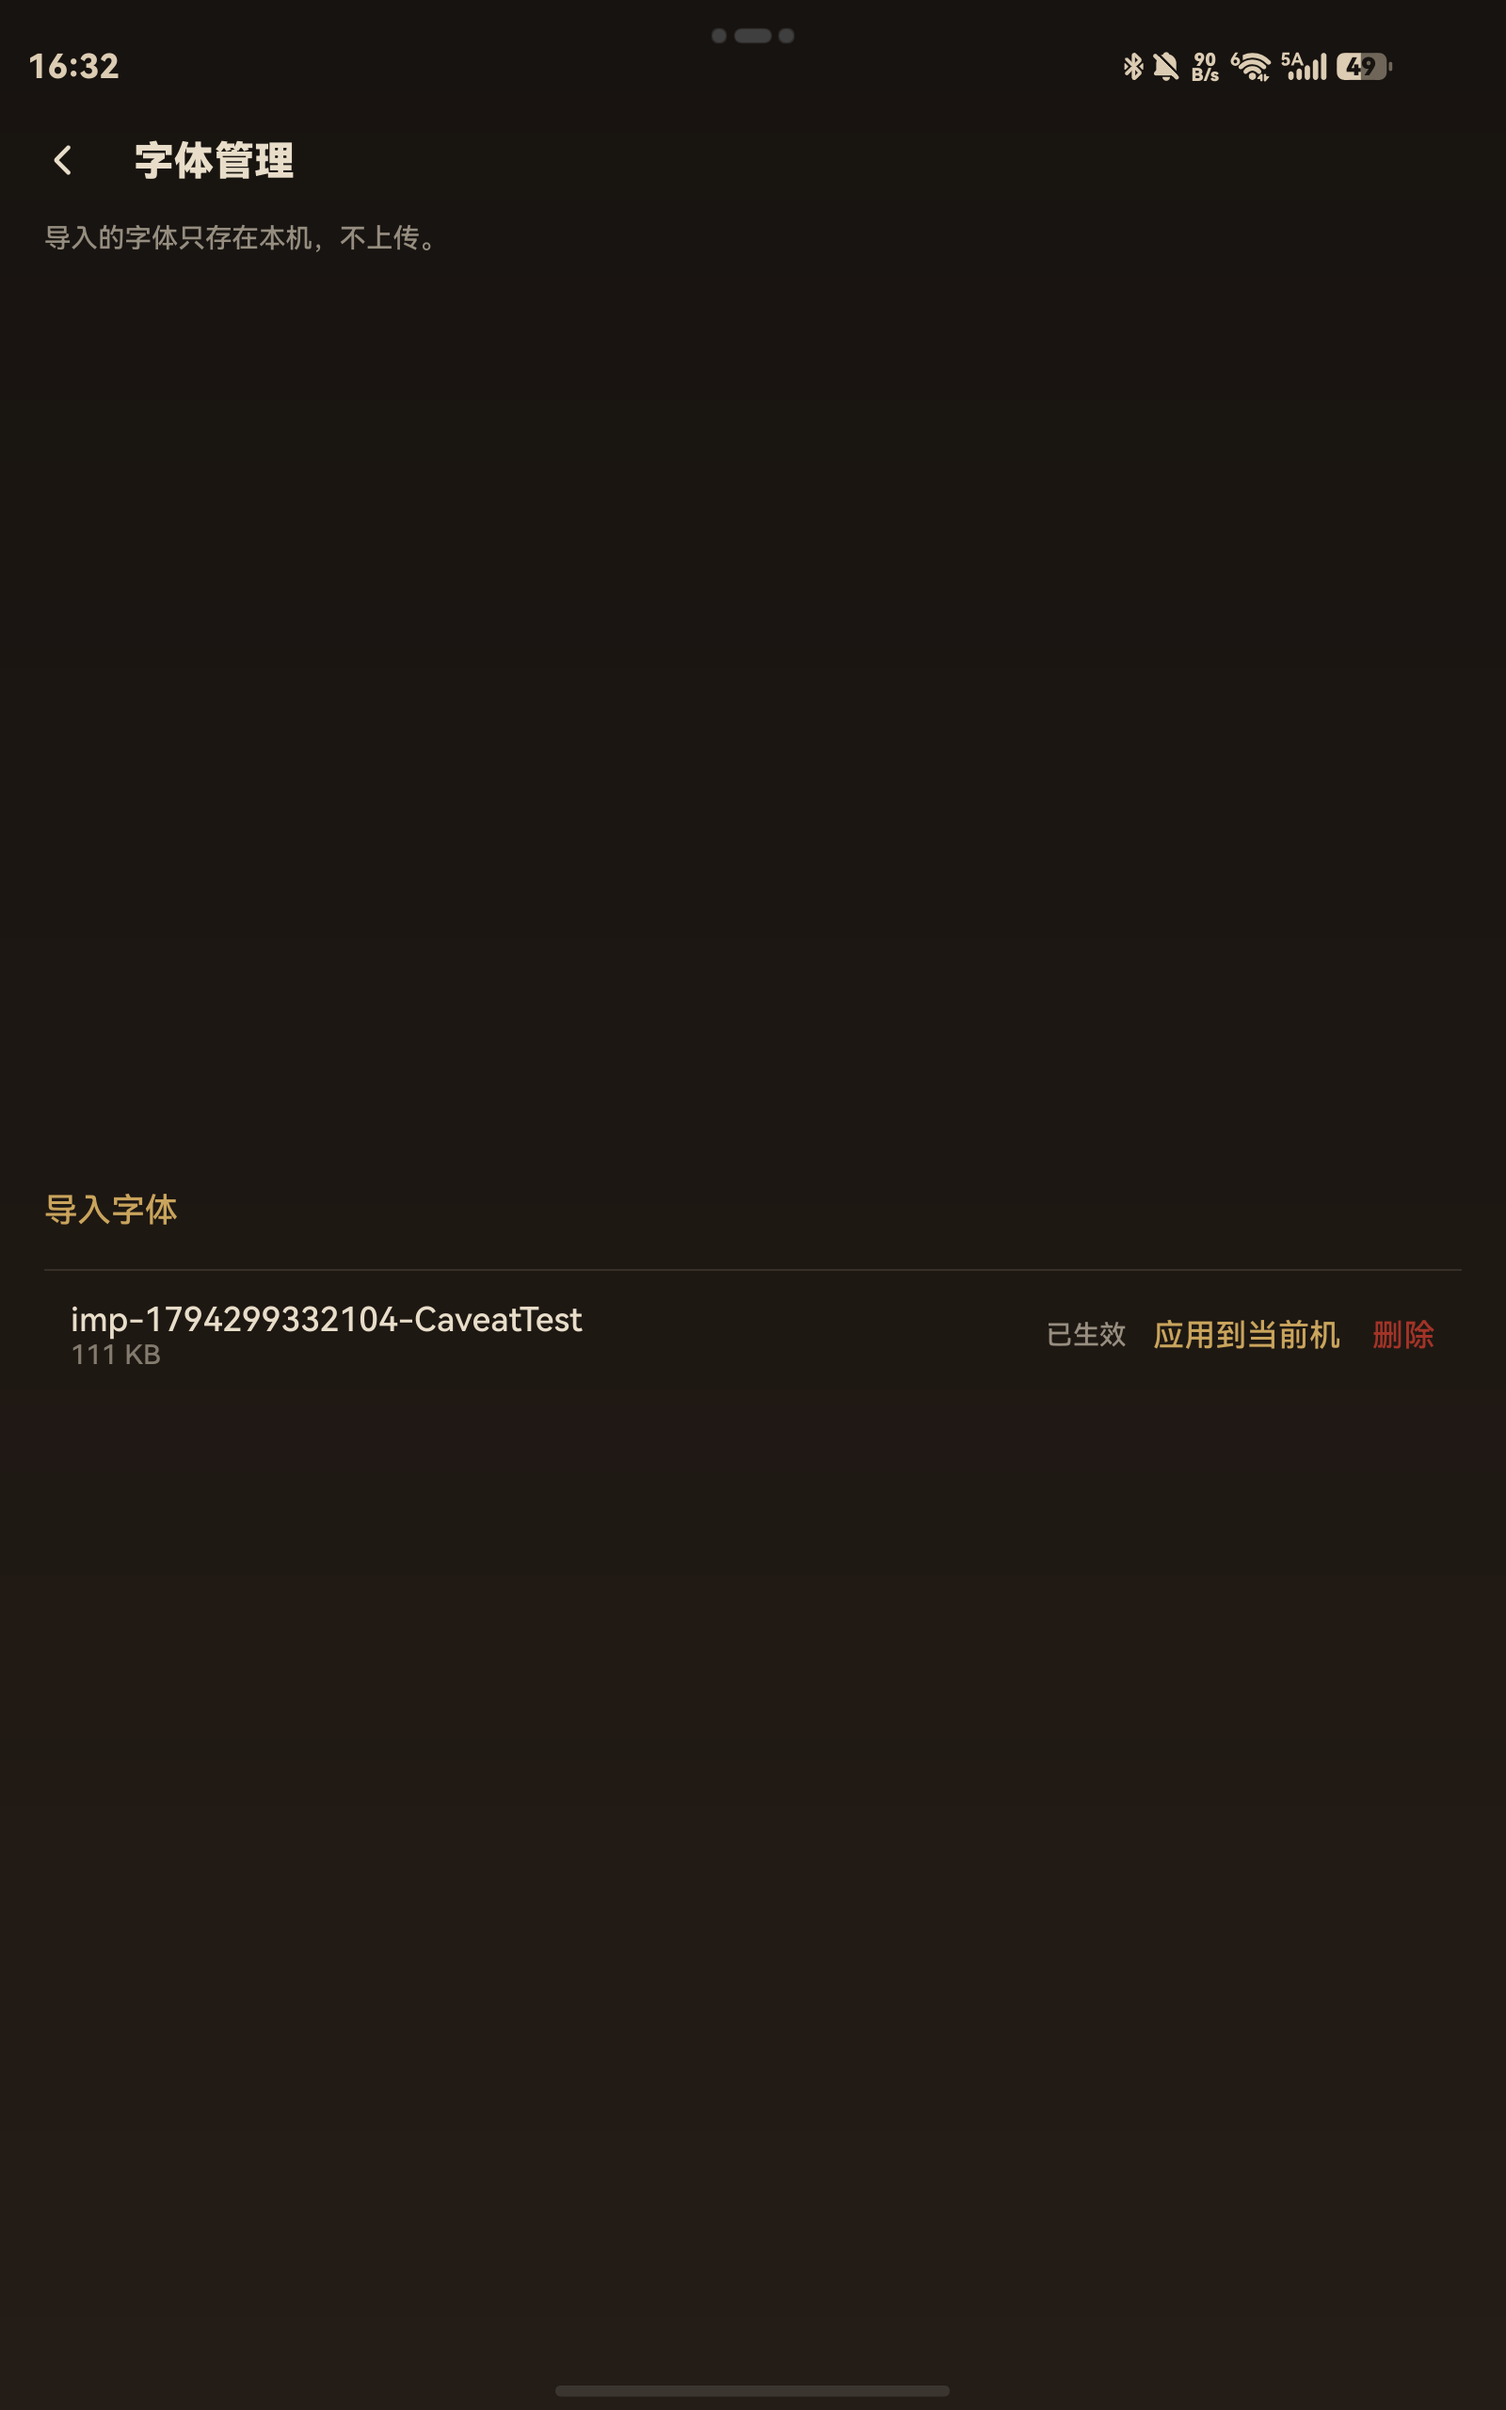
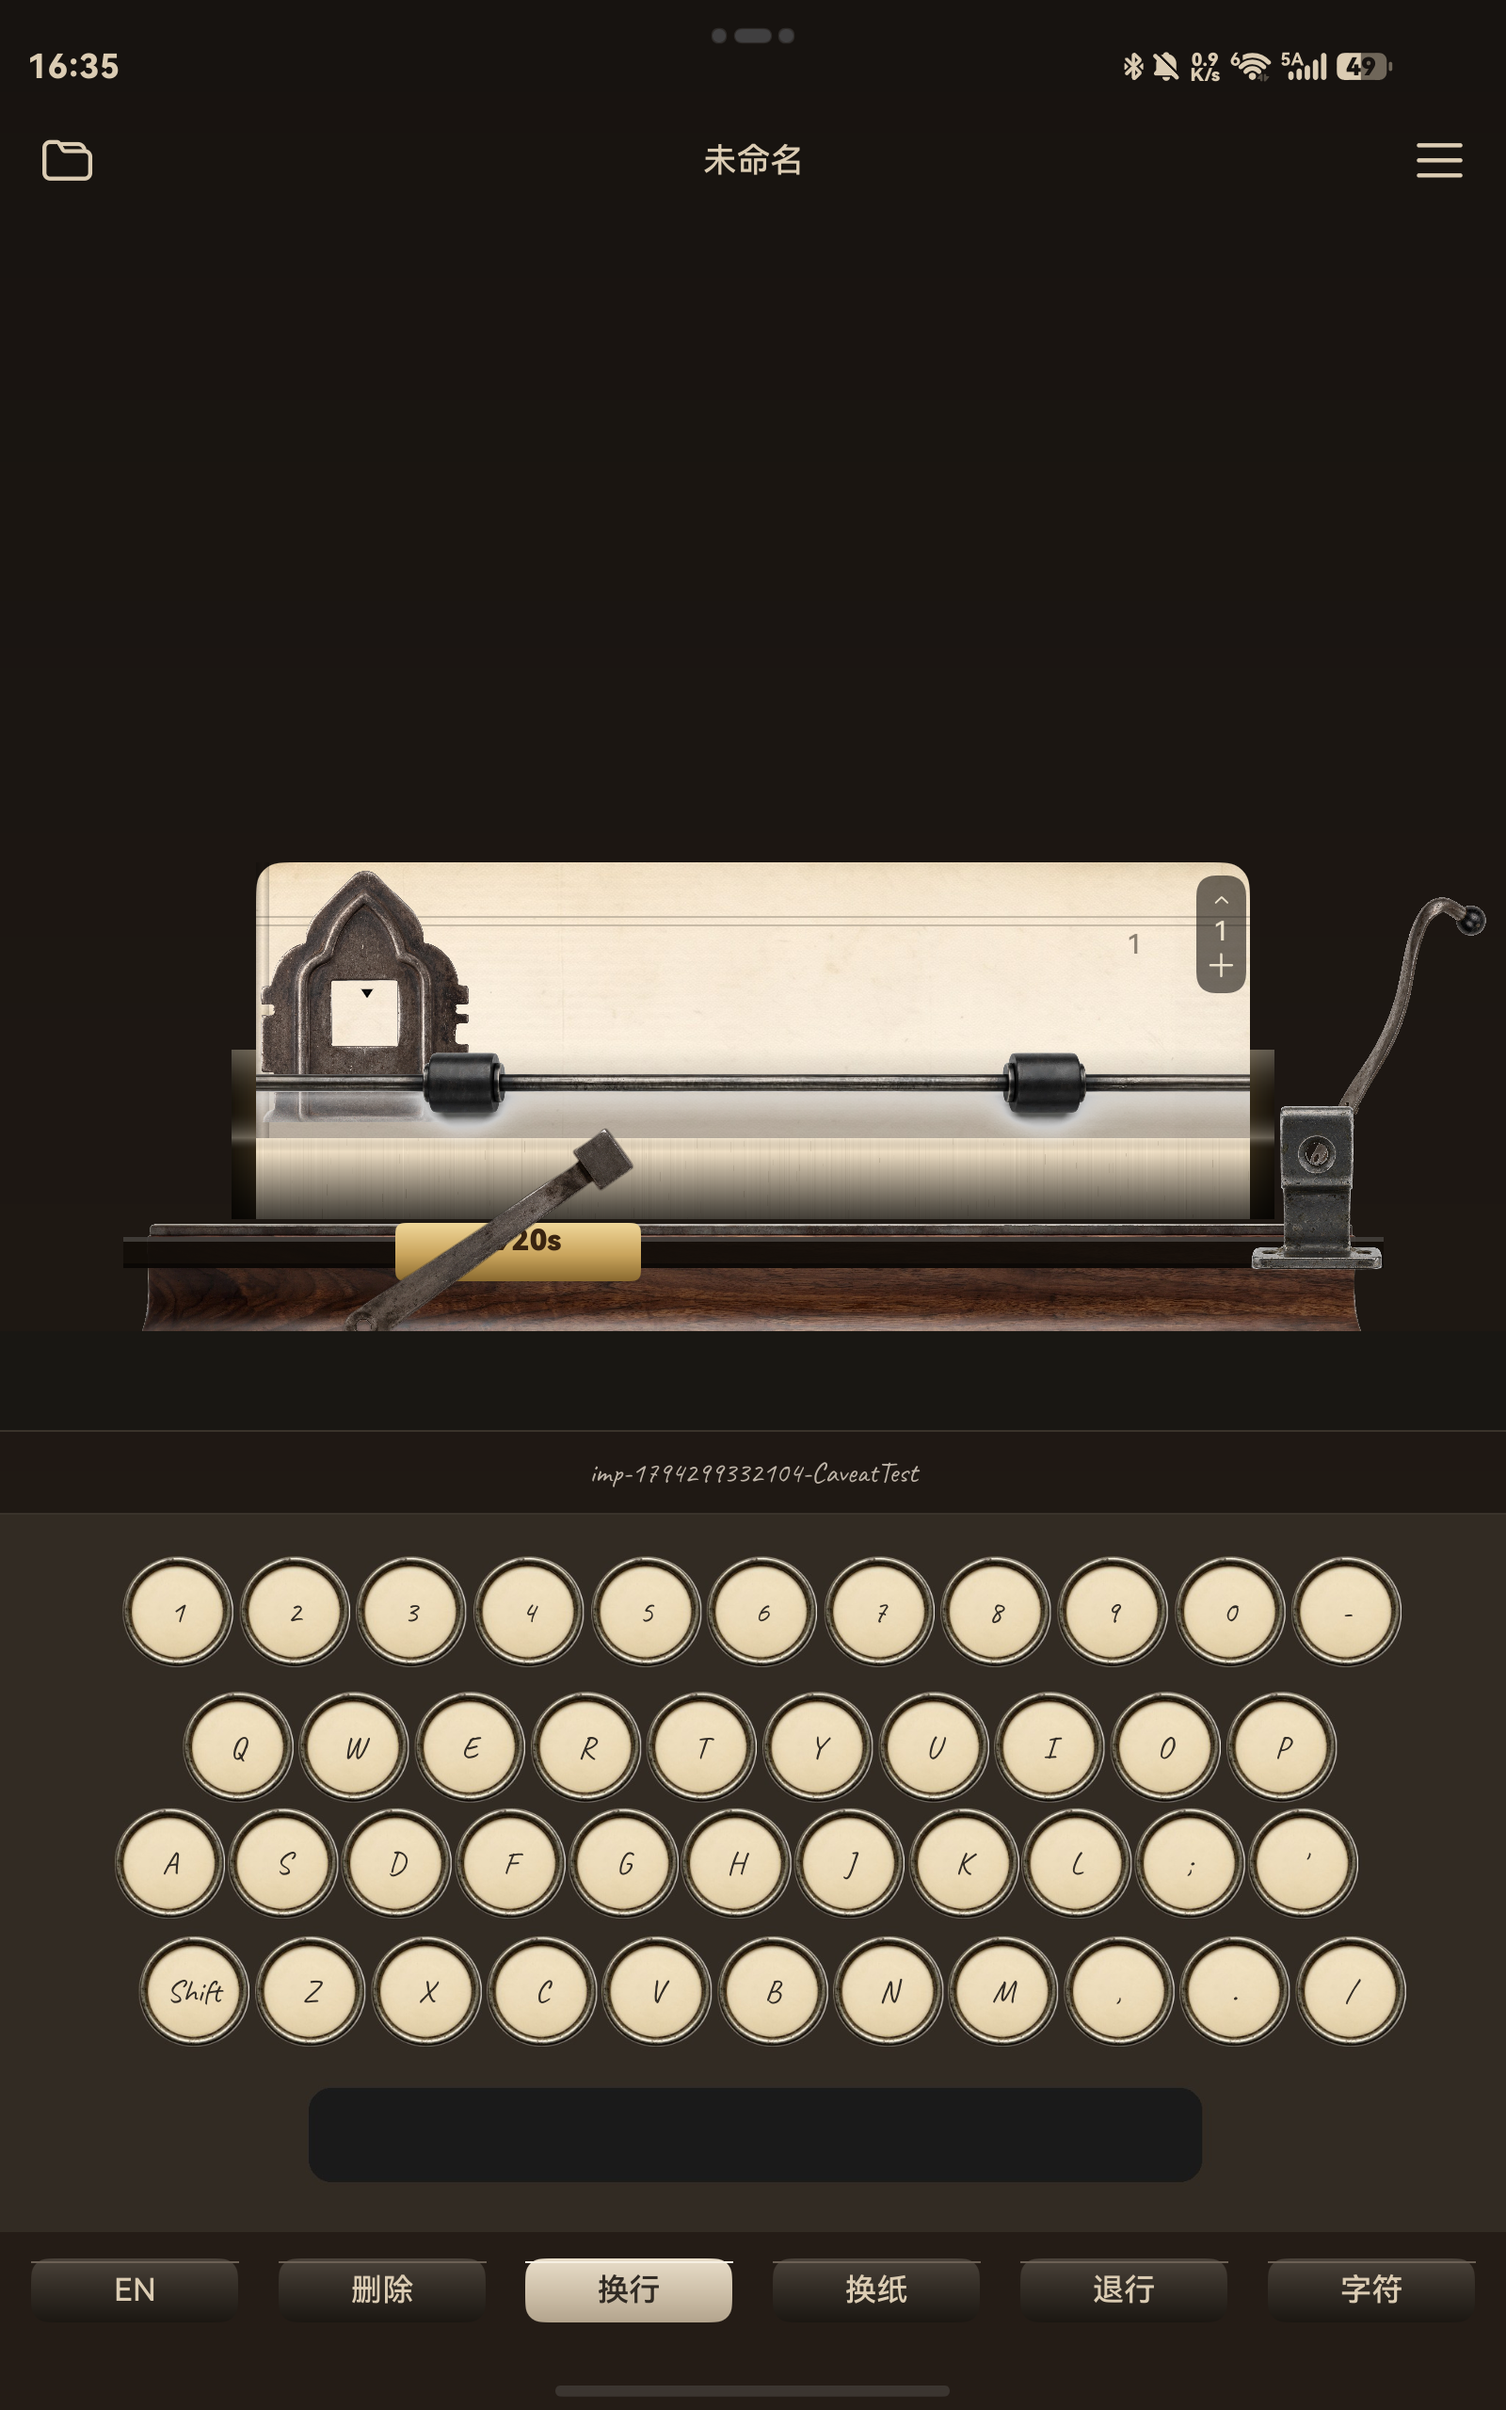
第 8 批第十二波 R3：全链走通 5/6（导入/注册/列表/应用/删除均真机验，应用后打字机标签与字形均换成 Caveat）；暴露新缺陷——删除字体后机器仍指向被删 family、未回退默认，已记待修

diff --git a/docs/evidence/回归矩阵-第7批.md b/docs/evidence/回归矩阵-第7批.md
@@ -14,7 +14,7 @@
 | F1 | 重播入口 | 设置→关于→重播启动引导 | 真机点按 | `836`（重播启动引导后引导再现） | 同上 | — | **PASS** | — |
 | F2 | 每页提示 | 14 页逐页核对 2–4 条提示＋hint＋标题 | 真机逐页进页并截图 | `780`–`785`（首轮 6 页）、`891`（字体管理）、`883`（纸张自定义）、`893`（拼音设置）、`895`（收藏详情）、`896`（回收站空态）、`899`／`900`（卷宗列表／内页）、`901`（文档视图 `top=docview`、hint「文档视图只读，不会自动改动内容。」）、`902`（打字机页 3 条） | — | **PASS（14/14）**：每页均有标题＋2–4 条引导＋hint；进入方式逐一记录（文档视图＝点纸缩略图，`打开` 文字链进主屏编辑，见 `DossierDetailPage.ets` §5.3） |
 | F2 | 重播页面引导 | 设置→重播页面引导→下次进入生效 | 真机点按后重进设置 | `832`（重置提示帧）、`833`（重进设置时引导再现） | 同上 | — | **PASS** | — |
-| F3 | 字体 | 17 款列出、每机字体、导入/删除 | 换装页＋字体管理页真机 | `838`（17 款列表）、`839`（稳态）、`830`／`891`（字体管理页）、`892`（选择器调起）、`905`（**导入成功**：`imp-1794299332104-CaveatTest` 111 KB 已生效）、`906`（应用到当前机入口）、`904`（纸张预设 pset1） | **已采**：`AceFont RegisterFont [familyName:imp-1794299332104-CaveatTest]`；`FontService registerFont private ok`；`import done family=imp-… ok=true size=113164` | 导入/删除 | **PARTIAL（导入已通，删除未做）**：本轮修掉真实缺陷——`FileHelper.copyToSandbox` 用 `fs.copyFileSync(uri, dest)` 直接传 picker 的 `file://` URI，真机抛 `13900002 No such file or directory`，页面报「文件无法写入沙箱」；改为「按 URI 开源 fd → 目标 fd → 按 fd 复制」后导入成功。已验：导入 → `registerFont` 成功 → 列表出现（已生效／应用到当前机／删除）。**未做**：点「应用到当前机」后链接文案不变、未到打字机核字体是否真换；「删除」未执行 |
+| F3 | 字体 | 17 款列出、每机字体、导入/删除 | 换装页＋字体管理页真机 | `838`（17 款列表）、`830`／`891`（字体管理页）、`892`（选择器）、`905`（**导入成功、列表「已生效」**）、`907`（**打字机字体标签与字形都换成导入字体**）、`908`（**删除后列表清空**） | **已采**：`AceFont RegisterFont [familyName:imp-…]`、`FontService registerFont private ok`、`import done ok=true size=113164` | 导入/删除 | **PARTIAL（5/6 步）**：本轮修掉两个真实问题并跑通全链前半段——① `FileHelper.copyToSandbox` 直接对 `file://` URI 调 `fs.copyFileSync` 抛 `13900002`（页面报「文件无法写入沙箱」），改为按 URI 开 fd 再按 fd 复制；② 全链实走：导入 → 注册 → 列表（已生效）→**应用到当前机（打字机字体标签与字形均换成 Caveat）**→ 删除（列表清空）。**未达成**：删除后**机器仍指向被删字体**（打字机标签还是 `imp-1794299332104-CaveatTest`），未回退默认字体 —— 新发现的缺陷，已记待修 |
 | F3 | 纸张 | 颜色/横线/边距/纹理/预设 | 纸张自定义页真机逐项调 | `883`（页首＋引导）、`884`（改前）、`885`（颜色换档＋横线开＋左右边距）、`886`（上下边距）、`887`（纹理入口＋保存为预设行）、`904`（**预设 pset1 已保存并列出**） | — | 五项 | **PARTIAL（4/5）**：颜色（选中环随点移动）、横线（开关 ON）、左右/上下边距（滑杆位移并即时反映到预览卡）、**预设（真机存成并列出，行内「删除预设」可点）**均已验；**纹理仍未做**（导入纸纹需文件选择器，与 R3 同一传输限制）；**「预设应用」不可验**——代码里 `PaperCustomPage.ets` 预设行（L378–390）只有「删除预设」链，**全页无 `applyPreset`**，即存了预设没有应用入口（属功能缺口，本批不新增功能，如实记） |
 | F3 | 字号 | 12–26 切档＋行高重排 | 换装页字号滑杆真机取两端 | `881`（12）、`882`（26） | **已采**：`fontSize apply=12 lineHeight=21.18`；`fontSize apply=26 lineHeight=45.88`；复位 `apply=24 lineHeight=42.35` | 极值 12/26 | **PASS（两端极值均取到，行高按 fs×30/17 同步重算）** | 无 |
 | F4 | 保存 | txt/png/pdf 保存到用户位置（文件管理器可见） | 真机三格式逐个导出并拉回核对 | `861`（系统保存选择器）、`863`／`864`（PNG 前后）、PDF 与 txt 见 `docs/evidence/r1_export_ashello.pdf` 与逐项记录 | **已采**：png＝`回车-as-20261110-020236.png` 1,481,935 B；pdf＝`回车-ashello你好world-20261110-140010.pdf` 4,542 B；txt＝`回车-ashello你好world-20261110-140230.txt` **19 B，UTF-8**（`61…6f e4bda0 e5a5bd 776f726c64 0a`＝`ashello你好world\n`） | — | **PASS（三格式均落盘并核对内容）** | 无 |
